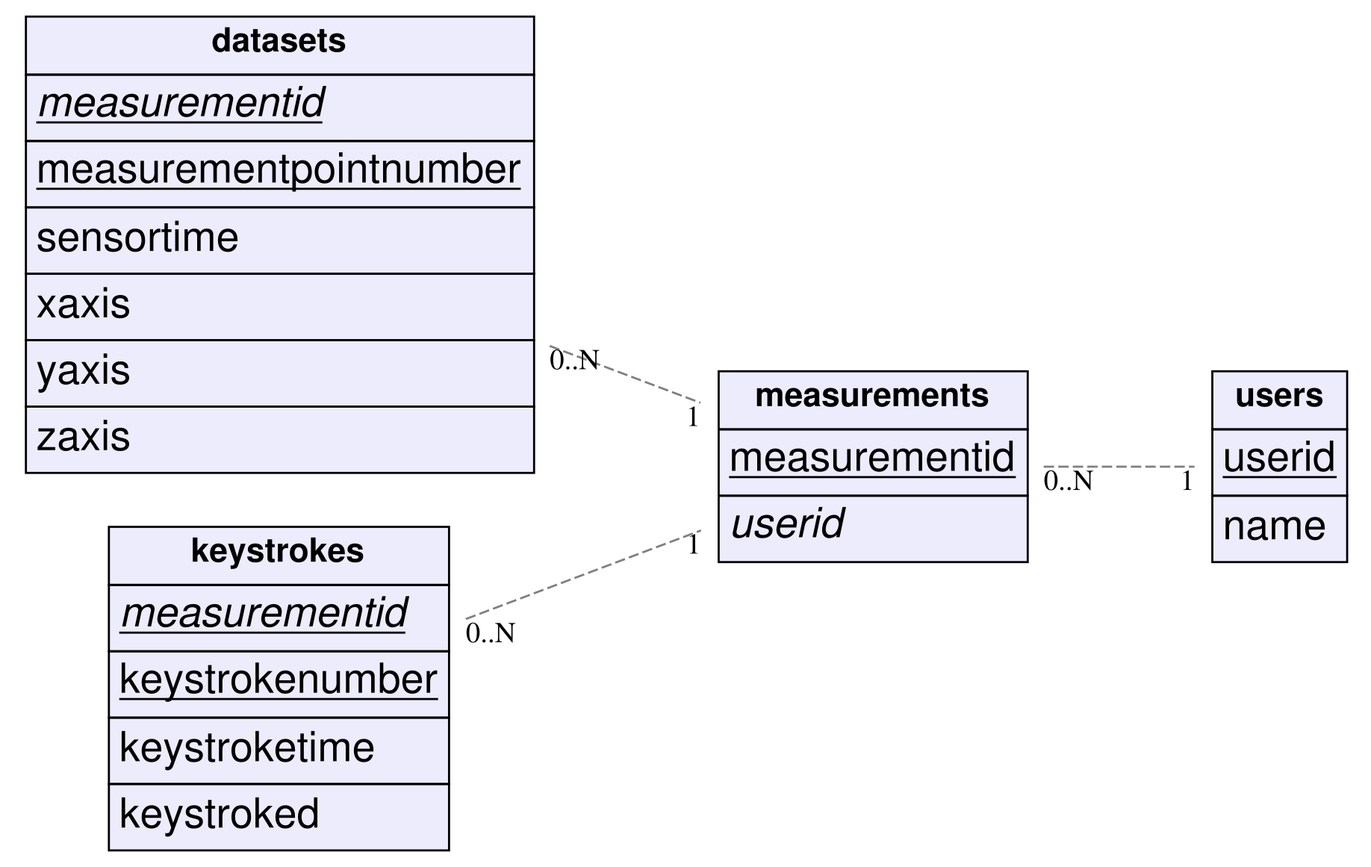
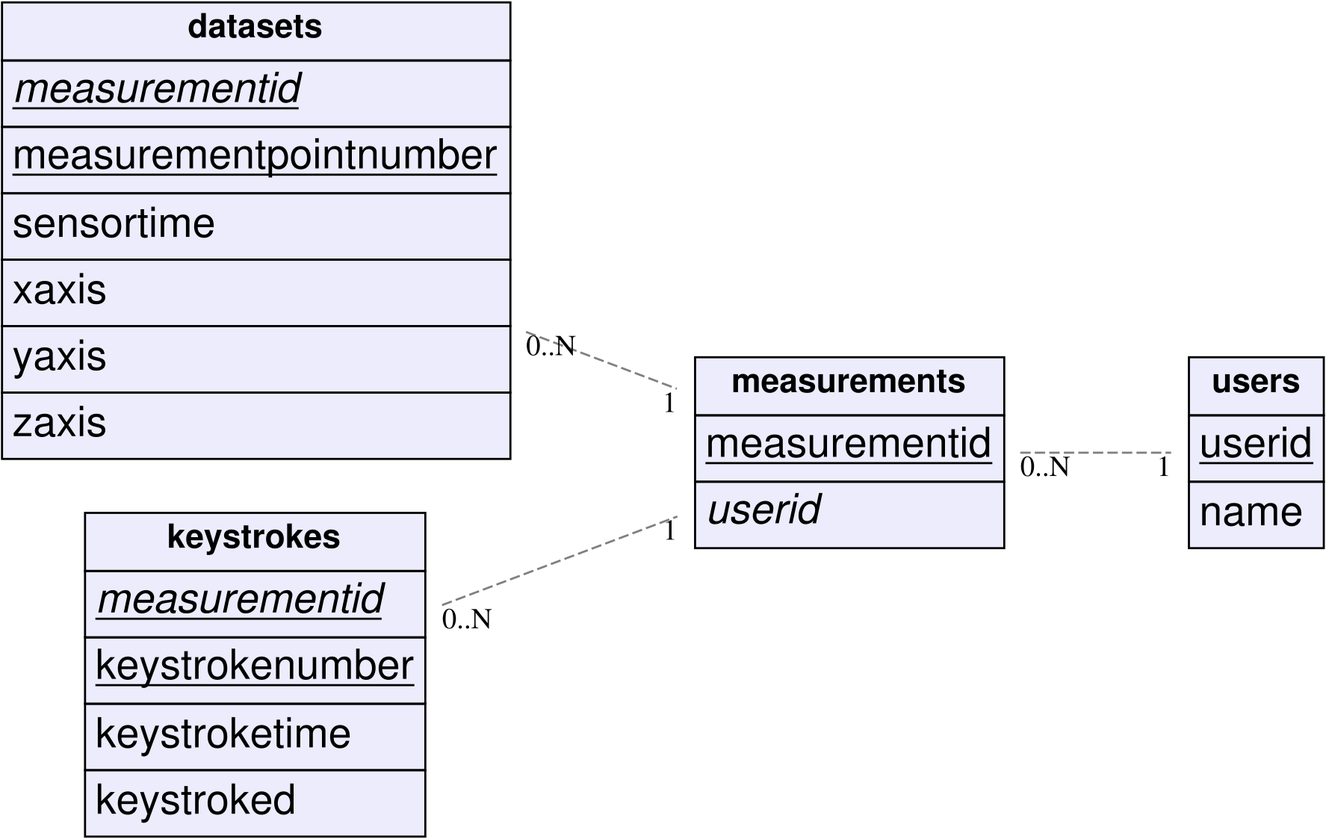
Updates from ShareLaTeX

diff --git a/chapters/01_introduction.tex b/chapters/01_introduction.tex
@@ -9,38 +9,38 @@ Aloul \etal introduced a system of \glspl{otp} using mobile phones, which signif
 \section{Vision}
 The vision of this thesis is to provide a way to easily detect individual users by a short authentication sequence based on acceleration patterns. Even though this does not necessarily qualify as cryptographically secure authentication, behavioural patterns and keystroke recognition can be used as biometric authentication aids. For example, Bhargav-Spantzel \etal \cite{bhargav2006privacy} described a system to extract cryptographic biometric keys from biometric data and showed how this can be combined with additional other proofs of identity to provide strong authentication.
 
-With acceleration pattern recognition, we will make a authentication mechanism with zero additional user interaction possible. This allows for higher frequency user re-authentication without disturbing and annoying the user. That means, instead of prompting the user with a login screen every 24 hours, we can measure his or her acceleration patterns every time sensitive information is accessed. Therefore, we can not only provide basic login authentication, but also provide a way for users to stay authenticated for longer sessions or even detect when someone else hijacks a valid session. Since the time between two authentication requests can almost be arbitrarily small, an attacker who gets control over the current session will get a new authentication request relatively quickly, thus minimizing the potential damage.
+With acceleration pattern recognition, we are able to create an authentication mechanism with zero additional user interaction. This allows for higher frequency user re-authentication without disturbing or annoying the user. That means instead of prompting the user with a login screen every 24 hours, we can measure his or her acceleration patterns every single time sensitive information is accessed. Therefore we can not only provide basic login authentication, but also provide a way for users to stay authenticated for longer sessions or even detect when someone else hijacks a valid session. Since the time between two authentication requests can almost be arbitrarily small, an attacker who gets control over the current session will be deauthenticated quickly, thus minimizing the potential damage.
 \section{Single user licenses}
 Another application of this technique is to identify individual users, even if using the same device. This might not only be useful in terms of individualizing the software according to the current user, but also for tracking of software usage.
 
-A common licensing model for software are per-user licenses, \ie $n$ licenses for $n$ users of the software. However, this license model currently cannot be enforced, since the software is installed on a single physical device, which may be shared among users. This led to most software companies licensing their software per-installation instead of per-user.
-As of 2016, many users tend to have multiple devices and also want to use their licenses on multiple devices. This resulted in a trend to bind software licenses to user accounts instead of devices. This trend is also prevailing in modern \gls{saas} models, which do not require installation of the software on end-user devices anymore.
-A possible circumvention of these account bound licenses is account sharing. This imposes a real problem, not only for software licensors, but also for other access providers. For example a consumer research from Parks Associates\cite{accountsharing} reports, that ``6\% [of video streaming users] are exclusively using shared accounts to access subscription''. 
+A common licensing model for software are per-user licenses, \ie $n$ licenses for $n$ users of the software. However, this license model currently cannot be enforced since software is installed on a single physical device, which may be shared among users. This led to most software companies licensing their software per-installation instead of per-user.
+As of 2016, many users tend to have multiple devices and also want to use their licenses on multiple devices. This resulted in a trend to bind software licenses to user accounts instead of devices. The trend is also prevailing in modern \gls{saas} models, which do not require installation of the software on end-user devices anymore.
+A possible circumvention of these account bound licenses is account sharing. This imposes a real problem, not only for software licensors, but also for other access providers. For example a consumer research from Parks Associates \cite{accountsharing} reports, that ``6\% [of video streaming users] are exclusively using shared accounts to access subscription''. 
 
-The methods described in this theses can give a powerful way to detect individual users sharing physical devices, as well as sharing individual accounts and thus reduce copyright infringements that could not even be detected beforehand.
+The methods described in this thesis provide a powerful way to detect individual users, sharing physical devices or accounts. Thus with this approach we might reduce copyright infringements that could not even be detected beforehand.
 
 \section{Multi-factor authentication}
-\gls{mfa} is a technique to enhance security in access control situations. It combines multiple forms of authentication mechanisms, based on conceptually different approaches: Knowledge, \eg passwords or PINs; possessions, \eg keys or bank cards and biometric characteristics, like fingerprints or, as in our approach, behavioural patterns.
+\gls{mfa} is a technique to enhance security in access control situations. It combines multiple forms of authentication mechanisms, based on conceptually different approaches: Knowledge, \eg passwords or PINs; possessions, \eg keys or bank cards; and biometric characteristics, like fingerprints or behavioural patterns.
 
-A typical authentication attempt with \gls{mfa} is only successful, when all needed factors are present. The most common example for \gls{mfa} is banking, where one needs to be in possession of the banking card and needs to know the card's PIN. However, an attack vector targeting this system is copying the banking card while the attacked person does not notice his card being copied. This attack vector is also possible with biometric characteristics and even relatively easy, as many biometric traits are publicly visible. Fingerprints have proven to be copyable with low cost\cite{starbug2008bastel} and new high resolution cameras allow to photograph fingerprints and eyes in high enough quality to spoof many scanners\cite{fiebig2014security}. These attacks also can be adapted to other authentication systems based on visible biometric traits, such as iris recognition or Android's Face Unlock.
+A typical authentication attempt with \gls{mfa} is only successful, when all needed factors are present. The most common example for \gls{mfa} is banking, where one individual needs to be in possession of the banking card and also needs to know the card's PIN. However, an attack vector targeting this system is copying the banking card while the attacked person does not notice his card being copied. This attack vector is also possible with biometric characteristics and even relatively easy, as many biometric traits are publicly visible. Fingerprints have proven to be copyable with low cost \cite{starbug2008bastel} and new high resolution cameras allow to photograph fingerprints and eyes in high enough quality to spoof many scanners \cite{fiebig2014security}. These attacks also can be adapted to other authentication systems based on visible biometric traits, such as iris recognition or Android's Face Unlock.
 
-For biometric authentication to be sufficiently secure, the traits need to be intrinsic, \ie not publicly visible, and hard to copy. Acceleration based motion detection matches these requirements, as recording of these patterns is only possible with physical access to the authentication device or very close monitoring of all body movement of the user.
+For biometric authentication to be sufficiently secure, the traits need to be intrinsic, \ie not publicly visible and hard to copy. Acceleration based motion detection matches these requirements, as recording of these patterns is only possible with physical access to the authentication device or extremely precise monitoring of all body movement of the user.
 
 \section{Smart mobile devices}
 Smart devices are electronic devices, that feature wireless communication, \eg WiFi or Bluetooth. Smart \emph{mobile} devices are smart devices, that are typically worn or kept in close proximity to the user. This usage usually results in small form factors and little weight. These devices are most often commodity devices and used frequently. Therefore, smart mobile devices are ideal to provide authentication, since the authenticating user is accustomed using the device.
 
 \begin{figure}
     \centering
-    \includegraphics[width=0.8\textwidth]{figures/SmartDevices.png}
+    \includegraphics[width=0.7141\textwidth]{figures/SmartDevices.png}
     \caption{Examples for smart mobile devices that are worn in close proximity of the user (from left to right): A OnePlus One smartphone, a Sony SmartWatch 3, Smarty Ring concept design}
     \label{fig:smartdevices}
 \end{figure}
-Currently common examples for smart mobile devices are smartphones. With the release of the Apple Watch last year in 2015, smartwatches increasingly became popular. With the increasing miniaturization of smart mobile devices, a consequent next step would be even smaller devices, like smart-rings. In Figure~\ref{fig:smartdevices} a size comparison between the three mentioned categories is shown.
+Currently common examples for smart mobile devices are smartphones. With the release of the Apple Watch last year in 2015, smartwatches increasingly became popular. With a rapid miniaturization of smart mobile devices, a consequent next step would be even smaller devices, like smart-rings. In Figure~\ref{fig:smartdevices} a size comparison between the three mentioned categories is shown.
 
-One common trait of almost all smart mobile devices is the presence of acceleration and gyroscope sensors. These sensors are reasonable small and available as integrated circuits to fit in even the smallest devices. For this paper, we are focusing on acceleration sensors to detect behavioural patterns.
+One common trait of almost all smart mobile devices is the presence of acceleration and gyroscope sensors. These sensors are reasonable small and available as integrated circuits to fit in even the smallest devices. For this thesis, we are focusing on acceleration sensors to detect behavioural patterns.
 
 \subsection{Smartphones}
-Smartphones are the most capable of the smart mobile devices discussed herein. Smartphones usually have numerous wireless communication possibilities and thus function are a personal data-hub, to which other personal devices connect and communicate over. Typical connections for Smartphones are: Cellular network (\eg \acrshort{gsm}, \acrshort{umts}), WiFi, Bluetooth, Near Field Communication etc. Smartphones are also packed with sensors, which can be utilized by programmers of \Glspl{app} and typically include acceleration as well as gyroscopic sensors for movement detection.
+Smartphones are the most capable of the smart mobile devices discussed herein. Smartphones usually have numerous wireless communication possibilities and thus function are a personal data-hub, to which other personal devices connect and communicate over. Typical connections for Smartphones are: Cellular network (\eg \acrshort{gsm}, \acrshort{umts}), WiFi, Bluetooth, Near Field Communication etc. Smartphones are also packed with sensors, which can be utilized by programmers of \glspl{app} and typically include acceleration as well as gyroscopic sensors for movement detection.
 
 The three major operating systems on smartphones are Android, iOS and Windows. As shown in Figure~\ref{fig:smartphoneosmarketshare}, Android has the biggest market share of over 80\% and an \gls{app} targeting both Android and iOS can target up to 98\% of the smartphone audience.
 
@@ -71,7 +71,7 @@ Smart-rings are the next step towards even smaller wearables. The basic concept 
 However, there are no real commercially available smart-ring products yet, but just design concepts and prototypes. Specially developed smart-rings with acceleration sensors should be able to identify users based on their motion patterns. Future work might provide basic functionality on smart-rings, but definitely needs adaption to the special purpose operating systems. 
 
 \section{Pattern recognition}
-Pattern recognition is a branch of machine learning, focused on determining the similarity of datasets. This is usually used to detect predefined patterns, \eg reading numbers or detecting gestures. However, this approach can also be used to generally group similar datasets and classify these without predefined categories. Grouping acceleration patterns is the main goal of this paper, so pattern recognition algorithms should be a main focus of this paper.
+Pattern recognition is a branch of machine learning, focused on determining the similarity of datasets. This is usually used to detect predefined patterns, \eg reading numbers or detecting gestures. However, this approach can also be used to generally group similar datasets and classify these without predefined categories. Grouping acceleration patterns is the main goal of this thesis, so pattern recognition algorithms should be a main focus of this thesis.
 
 The pattern recognition concepts and techniques are largely based on Bishop's book ``Pattern Recognition and Machine Learning''\cite{bishop2006pattern}. We are especially using the concept of a three staged data processing, as shown in Figure~\ref{fig:patternrecognitionsteps}. In this concept, we are first recording the raw data, preprocess this data and extract a set of predefined features before using a standard classification algorithm.
 
@@ -87,16 +87,16 @@ In theory, pattern recognition algorithms can work on raw data. However, preproc
 
 A common example using this is technique is recognising digits in images. The digit recognition get significantly easier, when the image is cropped to a square around the digit and only using black and white images. Generally speaking, preprocessing steps usually scale the problem to a fixed size and eliminate random noise. As a result, all data is transformed to have similar shape and in general gains predictability.
 
-The preprocessing steps usually operate on the raw input data and in general does not result in a loss in information.
+The preprocessing steps usually operate on the raw input data and in general do not result in a loss in information.
 
 \subsection{Feature extraction}
 The next step, feature extraction, uses more aggressive means of extracting the relevant data for our specific use-case. The feature extraction step usually reduces the dataset by several orders of magnitude, which makes subsequent categorization much more reliant. As a note, we are making a distinction between preprocessing and feature extraction, where Bishop\cite{bishop2006pattern} treats them as the same.
 
-Feature extraction is a core component of this paper, since the performance of the pattern recognition algorithms scales with the amount of data needed to process. The main idea of this step is, that we do not need to compare the whole data from the acceleration sensors, but only the ``features'' we identify in the feature extraction step.
+Feature extraction is a core component of this thesis, since the performance of the pattern recognition algorithms scales with the amount of data needed to process. The main idea of this step is, that we do not need to compare the whole data from the acceleration sensors, but only the ``features'' we identify in the feature extraction step.
 
 However, this feature extraction step is also a step, where real information can be lost. This means, that a precise and accurate feature extraction algorithm is essential. A too broad feature extraction algorithm can result in not recognizing legitimate authentication attempts, while a to narrow algorithm allows attackers to easily bypass this system. Also, for the data to be comparable, all data must undergo the same preprocessing and feature extracting steps. Even slight changes in the algorithms can spoil previous training steps.
 
 \subsection{Classification}
 In the end, a pattern algorithm is used to classify the data to various categories. This is usually done by training the algorithm first with known categories. Based on this training, the algorithm then can decide to which category new data with unknown category belongs to. This form of training is called ``supervised'' training.
 
-In general, the training can also be done unsupervised, \ie the initial category is unknown, and the algorithm finds best-fit categories itself. However, for this paper, we implemented a supervised algorithm, which can identify previously learned users. Automatically recognising new users might be possible as a future enhancement.
+In general, the training can also be done unsupervised, \ie the initial category is unknown, and the algorithm finds best-fit categories itself. However, for this thesis, we implemented a supervised algorithm, which can identify previously learned users. Automatically recognising new users might be possible as a future enhancement.

diff --git a/chapters/03_implementation.tex b/chapters/03_implementation.tex
@@ -1,5 +1,5 @@
 \chapter{Implementation}\label{chapter:implementation}
-For this paper, we are implementing app prototypes to demonstrate the capability of pattern recognition as personal authentication factor. We chose Android as the main smart device platform, since access to development tools and documentation is freely available. Also Android applications are developed using Java, which allows to use many existing libraries. Android code also remains portable across different form factors of devices, such as phones, tablets and smartwatches running Android-Wear.
+For this thesis, we are implementing app prototypes to demonstrate the capability of pattern recognition as personal authentication factor. We chose Android as the main smart device platform, since access to development tools and documentation is freely available. Also Android applications are developed using Java, which allows to use many existing libraries. Android code also remains portable across different form factors of devices, such as phones, tablets and smartwatches running Android-Wear.
 
 The development and testing of the Android application was conducted on the author's personal devices, an OnePlus One and a Nexus 10. To be able to develop an Android Wear app, the Chair of Operating Systems kindly provided a Sony Smartwatch 3.
 
@@ -16,7 +16,7 @@ There are also approaches to privacy protecting biometric authentication by loca
 
 A client-side data processing can also be used to authenticate the user locally, \eg when entering the phones unlock code. This can be used for intrusion detection or for locking stolen devices. However, server side authentication is easier to deploy, since changes in the authentication algorithms only need to be made in a single place. Authentication spoofing also is harder, since an attacker can analyze locally installed apps, but does not have access to the server application.
 
-For this paper, we implemented a client-side authentication mechanism. In our opinion, the privacy of a user is very important and personal data should not be transmitted over the network, when it can be avoided.
+For this thesis, we implemented a client-side authentication mechanism. In our opinion, the privacy of a user is very important and personal data should not be transmitted over the network, when it can be avoided.
 
 \section{General purpose Android acceleration pattern detection library}
 Since we are creating two different apps, a normal Android and an Android Wear variant, we quickly decided to share code among those apps. To do this, we created a general purpose acceleration pattern detection library for Android. This also allows rapid prototyping of the different approaches outlined in Chapter~\ref{chapter:approaches}.
@@ -35,7 +35,7 @@ Sensor sensor = (manager.getDefaultSensor(Sensor.TYPE_ACCELEROMETER));
 mgr.registerListener(myListener, sensor, SensorManager.SENSOR_DELAY_FASTEST);
 \end{lstlisting}
 
-The rate at which the \lstinline$SensorEventListener$ gets callbacks is defined via the third parameter of the \lstinline$SensorManager.registerListener()$ function. In our case, we are using the fastest rate possible, since we don't want to miss even the slightest features of the movement pattern. Miluzzo \etal\cite{miluzzo2012tapprints} also have shown in their paper about guessing letters from device movement, that their results drastically improve with higher sensor sampling rate. Hence, we chose to simply poll the sensor at the fastest rate possible, with \lstinline$SensorManager.SENSOR_DELAY_FASTEST$. In our tests, this corresponds to a sapling rate of about $\SI{200}{\hertz}$.
+The rate at which the \lstinline$SensorEventListener$ gets callbacks is defined via the third parameter of the \lstinline$SensorManager.registerListener()$ function. In our case, we are using the fastest rate possible, since we don't want to miss even the slightest features of the movement pattern. Miluzzo \etal\cite{miluzzo2012tapprints} also have shown in their paper about guessing letters from device movement, that their results drastically improve with higher sensor sampling rate. Hence, we chose to simply poll the sensor at the fastest rate possible, with \lstinline$SensorManager.SENSOR_DELAY_FASTEST$. In our tests, this corresponds to a sampling rate of about $\SI{200}{\hertz}$.
 
 \subsection{Sensor measurement framework}
 Within the library, we provide a simple way to record sensor values into a predefined data structure, called \lstinline$SensorData$. All classes defined to measure and record the sensors are organized in the \lstinline$measurement$ package.
@@ -73,7 +73,7 @@ To negate the effect gravity has on the measured data, we assume, that the devic
 
 To factor out the gravity, we normalize the measured data to get a mean value of 0. We can do this by simply calculating the mean value and shift all sensor values by the negative mean, which results in the mean afterwards being 0. This results in an overall formula of: $ x_{new} = x - \mu $ with $\mu$ being the mean of the measurement.
 
-To enhance the sensor recordings, we also implemented smoothing functions, that are able to dampen sensor noise. As for this paper, we implemented a simple moving average and exponential smoothing filters. The simple moving average algorithm works by averaging a certain number of measurements in a so called ``window size''. For comparison, we also implemented a simple moving average filter, which factors in the last smoothed value with a factor $\alpha$ with $0 < \alpha < 1$.
+To enhance the sensor recordings, we also implemented smoothing functions, that are able to dampen sensor noise. As for this thesis, we implemented a simple moving average and exponential smoothing filters. The simple moving average algorithm works by averaging a certain number of measurements in a so called ``window size''. For comparison, we also implemented a simple moving average filter, which factors in the last smoothed value with a factor $\alpha$ with $0 < \alpha < 1$.
 
 Since the rate of sensor measurements can vary with the processor load, we also could interpolate the measurements to a continuous function or simply a fixed rate. A technique to implement this would for example be cubic spline interpolation. However our sensor measurements are fairly regular and sufficient for a proof-of-concept, with a standard variance in measurements $< 0.01ms$. In real world applications with varying loads and background activity during sensor measurements, this might be needed.
 
@@ -112,9 +112,9 @@ Since our feature vectors are not necessarily equal in size, we decided to use a
     \label{fig:euclideandtw}
 \end{figure}
 
-The standard \gls{dtw} algorithm uses dynamic programming, which fills a matrix of distance measurements and optimized the path through it. There are also other implementations like SparseDTW or FastDTW available that require significantly less computation time. We decided to stay with a simple approach, since we already condensed the feature vectors and the naive implementations is fast enough.
+The standard \gls{dtw} algorithm uses dynamic programming, which fills a matrix of distance measurements and optimized the path through it. There are also other implementations like SparseDTW or FastDTW available that require significantly less computation time. We decided to stay with a simple approach, since we already condensed the feature vectors and the dynamic programming implementation is fast enough.
 
-To classify the feature vectors, we implemented a \gls{knn} algorithm according to Dudani's paper on this behalf\cite{dudani1976distance}. With this algorithm, we can compare a new feature vector to all other vectors and record the distance to those vectors. We can then decide according to the nearest neighbors, according to the distance measurement defined above, to which category (\ie user) the new feature vector belongs. To do this, we look at the $k$ vectors with the smallest distance to the new vector and count, which category is present most often.
+To classify the feature vectors, we implemented a \gls{knn} algorithm according to Dudani's paper on this behalf\cite{dudani1976distance}. With this algorithm, we can compare a new feature vector to all other vectors and record the distance to those vectors. We can then decide depending on the nearest neighbors, according to the distance measurement, to which category (\ie user) the new feature vector belongs. To do this, we look at the $k$ vectors with the smallest distance to the new vector and count, which category is present most often.
 
 To illustrate the \gls{knn} algorithm, a two dimensional example, as shown in Figure~\ref{fig:knnvisualization}, is better suited. On the left, we can see a plot of the already present data, represented as circles. These data-points are already categorized in three classes, shown as different colors of the circles. To categorize a new data-point \textbf{x}, we can now calculate the distance of \textbf{x} to all other points via a distance measurement. The \gls{euclideandistance} for two points is plotted as arrows in this example.
 
@@ -151,7 +151,7 @@ SQLite also stores the database in a single standardized file with a user-define
 The schema of the database is displayed in Figure~\ref{fig:dbschema}. With this schema, we are  storing the raw recorded data in so called ``datasets''. $N$ of the data points in a dataset form a whole measurement, which is linked to a single user. We also record the keystrokes in each of the measurements, when the user is using the on-screen keyboard. We then can correlate the ``sensortime'' we measured the individual acceleration in the dataset with the ``keystroketime'' to compare, if we correctly detected a keystroke. We also deduced the average keystroke and sensor-measurement frequency used in the parameters for the algorithms mentioned in the last sections.
 \begin{figure}
     \centering
-    \includegraphics[width=\textwidth]{figures/databaseschema.png}
+    \includegraphics[width=0.97\textwidth]{figures/databaseschema.png}
     \caption{Schema of the SQLite database used by the prototypes}
     \label{fig:dbschema}
 \end{figure}

diff --git a/chapters/02_approaches.tex b/chapters/02_approaches.tex
@@ -81,14 +81,14 @@ For recognition of key presses with smartwatches, we examined a scenario of a us
 
 \begin{figure}
     \centering
-    \includegraphics[width=\textwidth]{figures/WatchCoordinateSystem.png}
+    \includegraphics[width=0.9147\textwidth]{figures/WatchCoordinateSystem.png}
     \caption{The coordinate system of a smartwatch while typing on a keyboard}
     \label{fig:watchcoordinate}
 \end{figure}
 
 Wang \etal\cite{wang2015mole} discussed in their paper on MotionLeaks for MobiCom'15, that the key press timings on keyboards can be extracted by the Z-axis movement of the watch. When the user presses a key on the keyboard, the user's finger dips and the wrist also undergoes a partial dipping motion. This motion can be detected by the Z-axis acceleration, in combination with a peak detection algorithm, similar to the one used with phones in Section~\ref{subsection:phones}.
 
-Wang \etal also improoved their peak detection algorithm by chaining a peak detection tool with a bagged decision classifier. Since their goal was to guess individual typed keys instead of analysing the pattern as whole, the additional computational overhead might be worthwhile. This however, does not hold for our approach of matching the whole  input pattern, thus we use a simple peak detection algorithm.
+Wang \etal also improved their peak detection algorithm by chaining a peak detection tool with a bagged decision classifier. Since their goal was to guess individual typed keys instead of analysing the pattern as whole, the additional computational overhead might be worthwhile. This however, does not hold for our approach of matching the whole  input pattern, thus we use a simple peak detection algorithm.
 
 Additionally to keystroke pattern recognition the overall movement of the watch while typing can be used as an additional authentication vector. Different users might move their hands differently for text input. However we are not aware of scientific studies measuring the effectiveness of this approach.
 
@@ -118,4 +118,4 @@ For authentication purposes, an timely response to whether or not the authentica
 
 \subsection{Conclusion}
 As consequence of these limitations, we decided against using an gait recognition approach as personal authentication factor. Nonetheless, gait recognition might be an additional approach for intrusion detection. For example the device itself can recognise it being stolen by detecting other gait patterns. This allows the device to take counter-measures, \eg lock itself, alert the user and activate ``Find My Device'' functionality.
-In contrast, gait recognition is not suitable for concrete, immediate authentication needs, as it is the vision of this paper.
+In contrast, gait recognition is not suitable for concrete, immediate authentication needs, as it is the vision of this thesis.

diff --git a/chapters/05_conclusion.tex b/chapters/05_conclusion.tex
@@ -1,5 +1,5 @@
 \chapter{Conclusion}\label{chapter:conclusion}
-To conclude this paper, we can summarize, that our implementation serves as a proof of concept. We reached the goal of identifying users based solely on acceleration data and showed how to efficiently extract accurate features from this acceleration data.
+To conclude this thesis, we can summarize, that our implementation serves as a proof of concept. We reached the goal of identifying users based solely on acceleration data and showed how to efficiently extract accurate features from this acceleration data.
 
 \section{Current state}
 Even though the tests we conducted had a relatively small sample size, thus the results are not universally applicable. A 80\% detection rate of our system shows, that it can be used for safer and more convenient authentication mechanisms.
